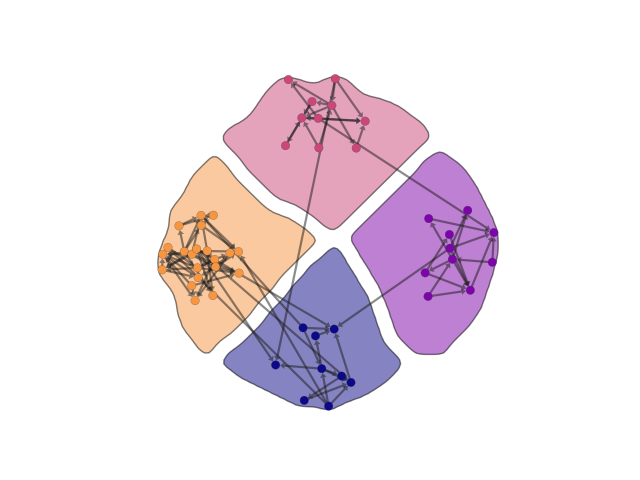
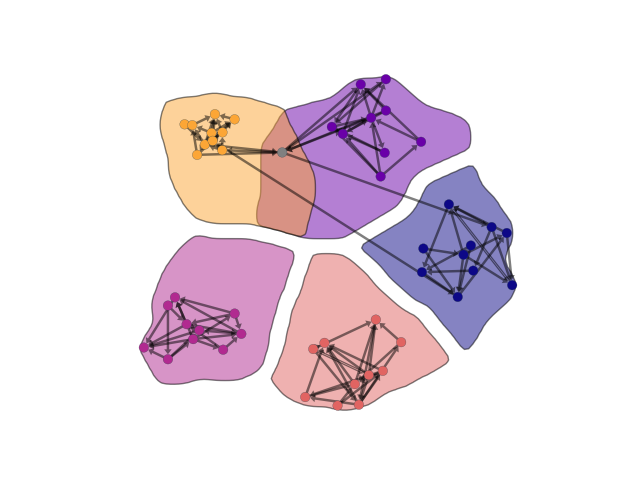
implement screen projections

diff --git a/cd_v_partition/vis_partition.py b/cd_v_partition/vis_partition.py
@@ -50,7 +50,7 @@ def create_partition_plot(G,nodes, partition, save_name):
     color_map = dict(zip(np.arange(num_colors+1), colors + ['gray']))
     colors = dict(zip(np.arange(len(nodes)), 
                       [color_map[comm[0]] if node not in overlaps else color_map[num_colors] for node, comm in node_to_partition.items() ]))
-    Graph(G, edge_width=5, node_size=10, node_layout=pos, node_color=colors, arrows=True, ax=ax)
+    Graph(G, edge_width=5, node_size=10, edge_color='black', node_layout=pos, node_color=colors, arrows=True, ax=ax)
 
     for comm, nodes in partition.items():
         _create_patches(pos, ax, nodes, color_map[comm])

diff --git a/examples/run_base_case.py b/examples/run_base_case.py
@@ -4,7 +4,7 @@ from cd_v_partition.utils import get_random_graph_data, get_data_from_graph, eva
 from cd_v_partition.causal_discovery import pc, weight_colliders, sp_gies
 from cd_v_partition.overlapping_partition import oslom_algorithm, partition_problem
 from cd_v_partition.vis_partition import create_partition_plot
-from cd_v_partition.screen_moralizers import fusion
+from cd_v_partition.fusion import fusion
 import networkx as nx
 import numpy as np
 import pandas as pd
